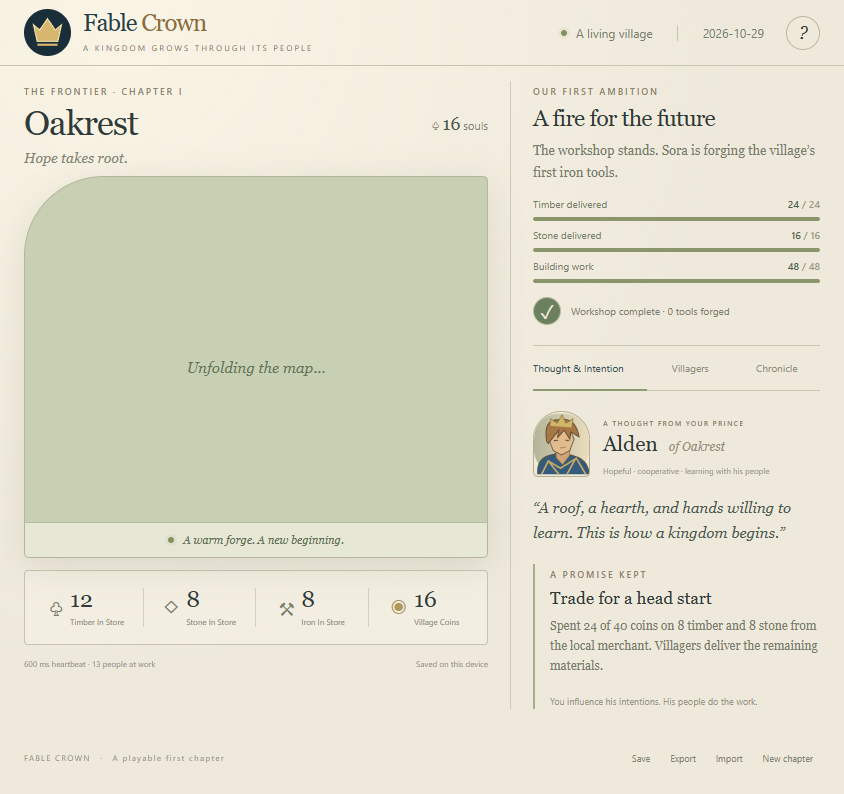
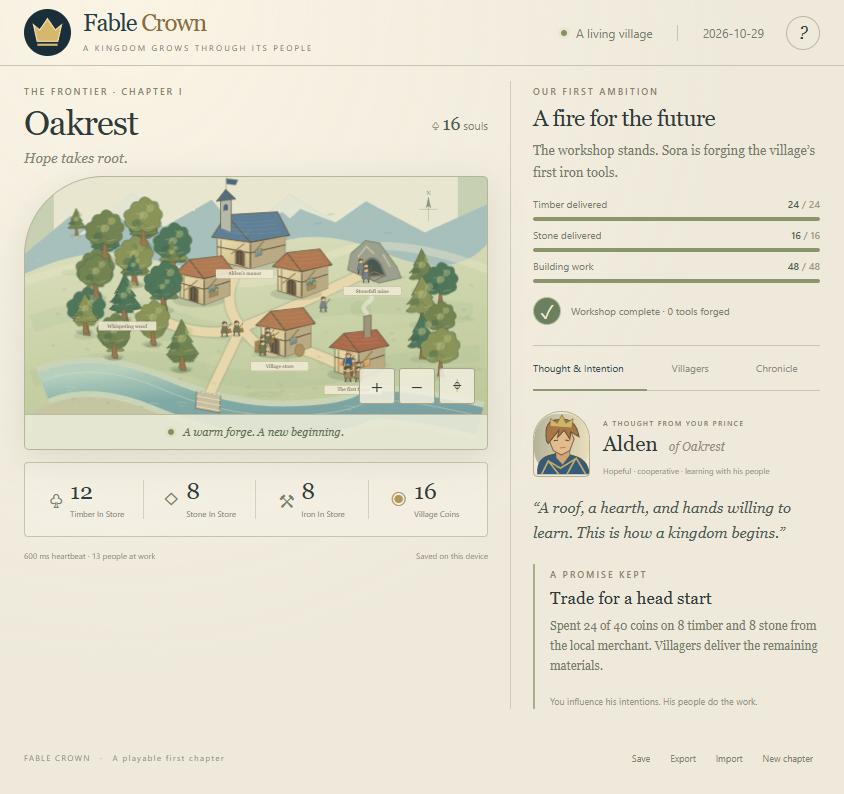
Keep map controls touch-friendly and record final responsive screenshots

diff --git a/src/style.css b/src/style.css
@@ -1028,3 +1028,13 @@ footer button:hover {
     transition: none !important;
   }
 }
+
+/* Keep all chrome controls comfortable to tap, including the map overlay. */
+.help,
+.map-tools button {
+  min-height: 44px;
+  min-width: 44px;
+}
+footer button {
+  min-height: 44px;
+}
